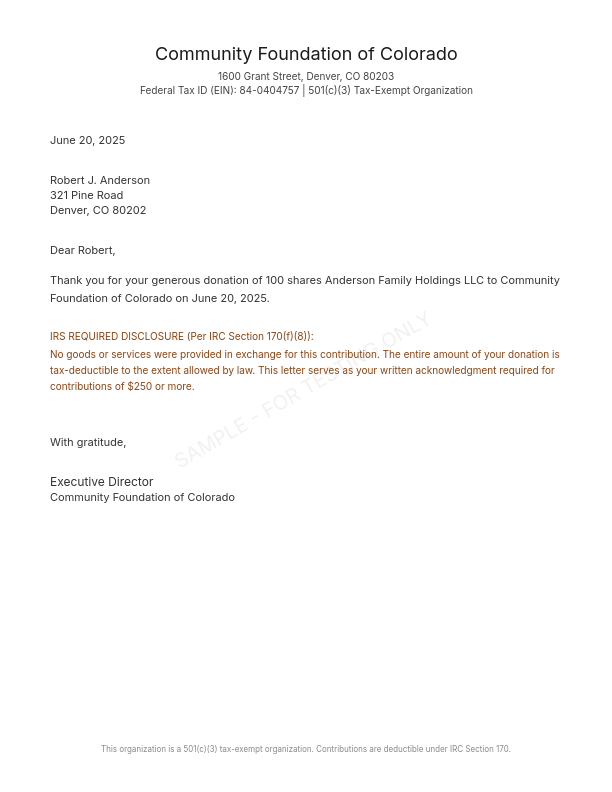
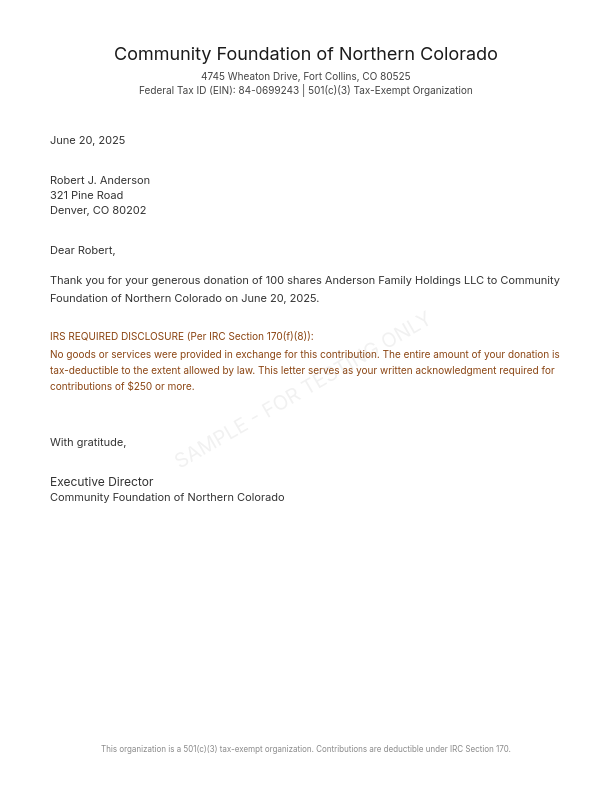
test(DM-3067): use active 501(c)(3) for D023

Changed region(s): [[0.1863, 0.0606, 0.8072, 0.1212], [0.2173, 0.3636, 0.5278, 0.3939], [0.3105, 0.6061, 0.4657, 0.6364]]

diff --git a/scripts/validate_fixtures.js b/scripts/validate_fixtures.js
@@ -230,6 +230,12 @@ for (const donation of sectionADonations) {
 
 const d023 = fixture('D023');
 assertForms('D023', ['form_8283_section_a', 'acknowledgment_letter']);
+assert(
+    d023.donee.name === 'Community Foundation of Northern Colorado' &&
+        d023.donee.ein === '84-0699243' &&
+        d023.donee.address === '4745 Wheaton Drive, Fort Collins, CO 80525',
+    'D023 must retain its active staging-BMF-backed 501(c)(3) identity'
+);
 assert(!d023.assetCondition, 'D023 securities must not declare a physical condition');
 assert(
     getForm8283FmvMethod(d023) === '100 shares at $50.00',

diff --git a/README.md b/README.md
@@ -123,7 +123,7 @@ The `donations.json` file defines 37 test donations covering all IRS thresholds:
 ### Closely-Held Securities
 | ID | Amount | Forms | Notes |
 |----|--------|-------|-------|
-| D023 | $5,000 | form_8283_section_a, acknowledgment_letter | Complete, non-overlapping Section A; EIN-bearing acknowledgment supplies the donee EIN |
+| D023 | $5,000 | form_8283_section_a, acknowledgment_letter | Complete, non-overlapping Section A; active 501(c)(3) donee; EIN-bearing acknowledgment supplies the donee EIN |
 | D024 | **$10,000** | form_8283_section_b | **No-appraisal boundary** |
 | D025 | **$10,001** | form_8283_section_b, appraisal | **Boundary** |
 | D026 | $50,000 | form_8283_section_b, appraisal | |
